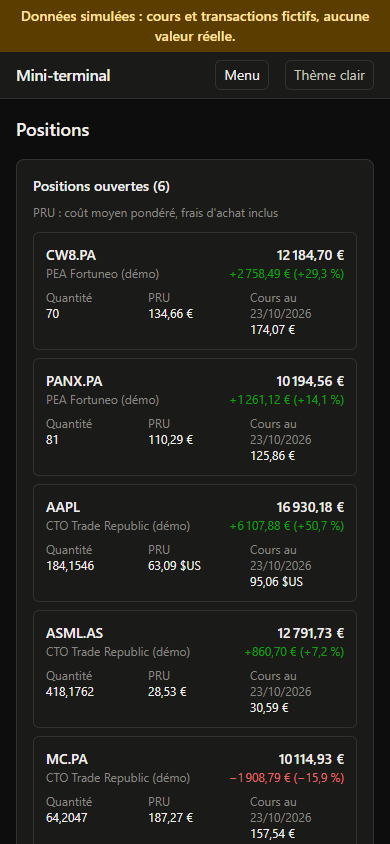
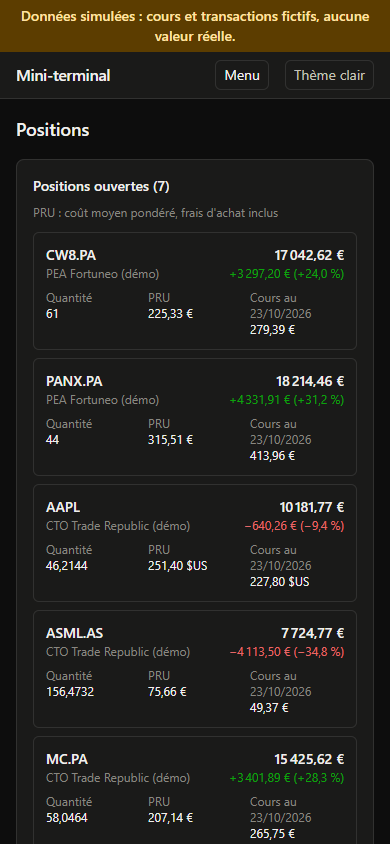
Démo : paramètres simulés plausibles, captures régénérées
Profils de long terme propres au fournisseur simulé (le rapport legacy garde les
siens ; demo_prices accepte un profil facultatif, même mécanique). Graine : la
première dont la trajectoire 2021-2026 respecte des fourchettes historiques
écrites et testées (indices 3-18 %/an, actions -10-35 %, bitcoin 5-60 %, au plus
+300 % sur 3 ans). Bêtas des ETF d'un même indice réglés pour une corrélation
d'environ 0,96. Le DCA du PEA reporte le reliquat non investi : avec des parts à
plus de 200 €, PANX n'était jamais acheté.

diff --git a/terminal/marketdata/simulated.py b/terminal/marketdata/simulated.py
@@ -24,6 +24,33 @@ from .base import InstrumentInfo, MarketDataProvider, PriceSeries, clean_series
 
 SIM_START = "2015-01-01"
 SIM_END = "2030-12-31"
+
+# Profils de long terme (rendement espéré mu, volatilité sigma, bêta au facteur commun de
+# volatilité 20 %). Les ETF d'un même indice ont un bêta qui porte presque toute leur
+# variance : corrélation hebdomadaire d'environ 0,96, comme dans la réalité.
+SIM_PROFILE = {
+    "QQQ":     (0.14, 0.22, 1.10),
+    "PANX.PA": (0.13, 0.23, 1.14),
+    "IWDA.AS": (0.09, 0.15, 0.75),
+    "CW8.PA":  (0.09, 0.15, 0.75),
+    "AAPL":    (0.15, 0.28, 1.10),
+    "MC.PA":   (0.09, 0.27, 0.80),
+    "ASML.AS": (0.14, 0.35, 1.30),
+    "NVDA":    (0.30, 0.50, 1.60),
+    "BTC-EUR": (0.30, 0.65, 0.60),
+}
+
+# Une trajectoire simulée reste un tirage. La graine est la première (en partant de 0)
+# dont les rendements et volatilités réalisés du 04/01/2021 au 23/10/2026 restent dans des
+# ordres de grandeur historiques (test test_demo_universe_is_plausible) :
+#   indices : 3 % à 18 % par an, volatilité 12 % à 28 % ;
+#   actions : -10 % à 35 % par an, volatilité 18 % à 60 % ;
+#   bitcoin : 5 % à 60 % par an, volatilité 45 % à 80 %, au plus +300 % sur les 3 dernières années.
+SIM_SEED = 0
+PLAUSIBLE = {"index": (0.03, 0.18, 0.12, 0.28), "stock": (-0.10, 0.35, 0.18, 0.60),
+             "btc": (0.05, 0.60, 0.45, 0.80)}
+KIND = {"QQQ": "index", "PANX.PA": "index", "IWDA.AS": "index", "CW8.PA": "index", "AAPL": "stock",
+        "MC.PA": "stock", "ASML.AS": "stock", "NVDA": "stock", "BTC-EUR": "btc"}
 SOURCE = "Simulation (données fictives)"
 
 _TICKER_RE = re.compile(r"^[A-Z0-9][A-Z0-9.\-^=]{0,19}$")
@@ -45,8 +72,8 @@ class SimulatedProvider(MarketDataProvider):
     simulated = True
 
     def __init__(self) -> None:
-        self._universe = list(data.DEMO_PROFILE)
-        self._prices = data.demo_prices(self._universe, SIM_START, SIM_END)
+        self._universe = list(SIM_PROFILE)
+        self._prices = data.demo_prices(self._universe, SIM_START, SIM_END, seed=SIM_SEED, profile=SIM_PROFILE)
         self._extra: dict[str, pd.Series] = {}
 
     def _series(self, ticker: str) -> pd.Series:

diff --git a/terminal/data.py b/terminal/data.py
@@ -125,22 +125,15 @@ DEMO_PROFILE = {
     "BTC-USD": (0.40, 0.65, 0.90),
     "GLD":     (0.07, 0.15, 0.05),
     "TLT":     (0.02, 0.15, -0.15),
-    # Univers du portefeuille de démonstration (terminal.marketdata.simulated)
-    "PANX.PA": (0.13, 0.23, 1.00),
-    "CW8.PA":  (0.09, 0.15, 0.70),
-    "BTC-EUR": (0.40, 0.65, 0.90),
-    "AAPL":    (0.16, 0.28, 1.10),
-    "MC.PA":   (0.10, 0.28, 0.80),
-    "ASML.AS": (0.15, 0.35, 1.30),
-    "IWDA.AS": (0.09, 0.15, 0.70),
 }
 
 
 def demo_prices(tickers: list[str], start: str, end: str | None = None,
-                seed: int = 7) -> pd.DataFrame:
+                seed: int = 7, profile: dict | None = None) -> pd.DataFrame:
     """
     Modèle à un facteur avec queues épaisses :
         r_i,t = mu_i,d + beta_i * f_t + e_i,t
+    `profile` : paramètres (mu, sigma, bêta) par ticker ; DEMO_PROFILE par défaut.
     f_t et e_i,t suivent des lois de Student à 4 degrés de liberté, normalisées
     à variance unité puis mises à l'échelle. Ces données sont FICTIVES :
     elles servent à tester le code, pas à prendre une décision.
@@ -156,7 +149,7 @@ def demo_prices(tickers: list[str], start: str, end: str | None = None,
 
     cols = {}
     for t in tickers:
-        mu, sig, b = DEMO_PROFILE.get(t, (0.08, 0.25, 0.8))
+        mu, sig, b = (DEMO_PROFILE if profile is None else profile).get(t, (0.08, 0.25, 0.8))
         sig_d = sig / np.sqrt(A)
         idio_var = max(sig_d ** 2 - (b * sigma_f) ** 2, (0.2 * sig_d) ** 2)
         e = rng.standard_t(nu, n) * scale_t * np.sqrt(idio_var)

diff --git a/backend/app/demo.py b/backend/app/demo.py
@@ -73,16 +73,20 @@ def seed(s: Session, provider: MarketDataProvider, today: dt.date | None = None)
         s.add(models.Transaction(account_id=acc.id, listing_id=listing.id if listing else None, date=d,
                                  type=kind, currency=kw.pop("currency", "EUR"), **kw))
 
+    pending = {"PANX.PA": Decimal(0), "CW8.PA": Decimal(0)}
     for m in _months(START, today):
         d = m + dt.timedelta(days=4)
         if d > today:
             break
         add(pea, "DEPOT", d, amount=Decimal(400))
         for t in ("PANX.PA", "CW8.PA"):
+            # 200 € par mois et par ETF ; pas de fraction au PEA : le reliquat est reporté.
+            pending[t] += Decimal(200)
             day, p = px(t, d)
-            q = (Decimal(200) / p).quantize(Decimal(1), ROUND_DOWN)        # pas de fraction au PEA
+            q = (pending[t] / p).quantize(Decimal(1), ROUND_DOWN)
             if q > 0:
                 add(pea, "ACHAT", d, listings[t], quantity=q, price=p, fees=Decimal("0.00"))
+                pending[t] -= q * p
         day, p = px("BTC-EUR", d)
         q = ((Decimal(100) - Decimal("1.50")) / p).quantize(Decimal("0.00000001"), ROUND_DOWN)
         add(cry, "ACHAT", d, listings["BTC-EUR"], quantity=q, price=p, fees=Decimal("1.50"))

diff --git a/tests/test_marketdata.py b/tests/test_marketdata.py
@@ -208,3 +208,21 @@ def test_simulated_dividends(sim):
     px = sim.daily_closes("QQQ", date(2024, 1, 1), date(2024, 12, 31)).closes
     assert d.iloc[0] == pytest.approx(px.loc[d.index[0]] * 0.0015)
     assert sim.dividends("IWDA.AS", A, B).closes.empty
+
+
+def test_demo_universe_is_plausible(sim):
+    # Les rendements et volatilités réalisés de la démo restent dans des ordres de grandeur historiques.
+    import numpy as np
+    from terminal.marketdata.simulated import KIND, PLAUSIBLE
+    px = sim._prices.loc["2021-01-04":"2026-10-23"]
+    years = (px.index[-1] - px.index[0]).days / 365.25
+    for t in px:
+        s = px[t]
+        ann = (s.iloc[-1] / s.iloc[0]) ** (1 / years) - 1
+        vol = s.pct_change().std() * np.sqrt(252)
+        lo, hi, vlo, vhi = PLAUSIBLE[KIND[t]]
+        assert lo <= ann <= hi and vlo <= vol <= vhi, (t, ann, vol)
+    b3 = px["BTC-EUR"].loc["2023-10-23":]
+    assert b3.iloc[-1] / b3.iloc[0] - 1 <= 3.0
+    w = px.resample("W-FRI").last().pct_change().dropna().corr()
+    assert w.loc["QQQ", "PANX.PA"] > 0.9 and w.loc["IWDA.AS", "CW8.PA"] > 0.9

diff --git a/backend/tests/test_import_cache_demo.py b/backend/tests/test_import_cache_demo.py
@@ -243,6 +243,9 @@ def test_demo_mode_seeds_once_and_is_flagged():
         s = c.get("/api/portfolio/summary").json()
         assert s["meta"]["simulated"] is True and s["complete"] is True
         assert s["meta"]["warnings"] == []          # jeu de démo cohérent : aucun solde négatif
+        # Le DCA du PEA investit vraiment : les espèces restent inférieures à deux mois de versements.
+        pea = next(a for a in s["accounts"] if a["kind"] == "PEA")
+        assert Decimal(pea["cash_eur"]) < 800 and Decimal(pea["securities_eur"]) > 10 * Decimal(pea["cash_eur"])
         adj = c.get("/api/portfolio/positions").json()["split_adjustments"]
         assert [(a["ticker"], a["quantity_before"], a["quantity_after"]) for a in adj] == [("NVDA", "2", "20")]
         assert c.get("/api/meta").json()["simulated"] is True

diff --git a/README.md b/README.md
@@ -16,7 +16,11 @@ aucun identifiant stocké.
 | **Positions (thème clair)** | **Positions sur mobile** |
 | ![Positions](docs/captures/positions-clair.png) | ![Mobile](docs/captures/positions-mobile.png) |
 
-*Captures en mode démo : cours et transactions simulés, signalés par le bandeau en haut de page.*
+*Captures en mode démo : cours et transactions simulés, signalés par le bandeau en haut de page. Les cours simulés
+suivent des profils de long terme (Nasdaq 100 : 14 % d'espérance, 22 % de volatilité ; MSCI World : 9 % et 15 % ;
+bitcoin : 30 % et 65 %). La graine retenue est la première dont la trajectoire 2021-2026 reste dans des ordres de
+grandeur historiques, selon des critères écrits et testés (`terminal/marketdata/simulated.py`). Ce n'est pas une
+trajectoire choisie pour flatter le portefeuille.*
 
 ## État du projet
 
